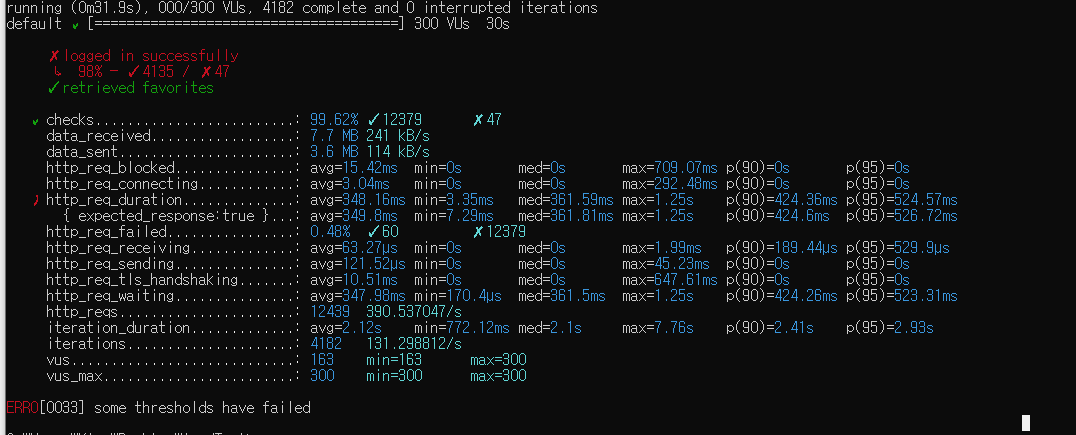
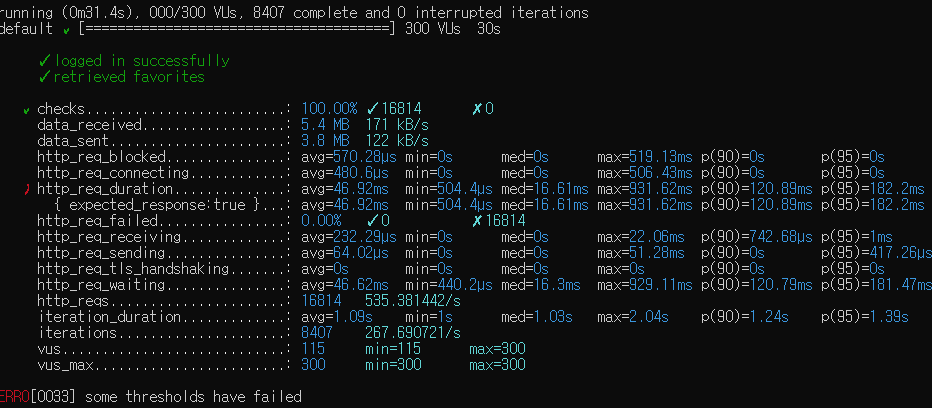
fix : [STEP1] 개선 가능한 항목 재 정리 및 전후 비교 수정 추가

diff --git a/k6/load.js b/k6/load.js
@@ -10,7 +10,7 @@ export let options = {
   },
 };
 
-const BASE_URL = 'https://performance.honbabzone.com';
+const BASE_URL = 'http://localhost:8080';
 const USERNAME = 'user@test.com';
 const PASSWORD = '1234';
 
@@ -18,7 +18,7 @@ export default function ()  {
   let loginResponse = 로그인();
   
 
-  즐겨찾기_조회하기(loginResponse);
+  //즐겨찾기_조회하기(loginResponse);
 
   경로_조회하기(loginResponse)
 

diff --git a/k6/smoke.js b/k6/smoke.js
@@ -10,7 +10,7 @@ export let options = {
   },
 };
 
-const BASE_URL = 'https://performance.honbabzone.com';
+const BASE_URL = 'http://localhost:8080';
 const USERNAME = 'user@test.com';
 const PASSWORD = '1234';
 
@@ -18,7 +18,7 @@ export default function ()  {
   let loginResponse = 로그인();
   
 
-  즐겨찾기_조회하기(loginResponse);
+  //즐겨찾기_조회하기(loginResponse);
 
   경로_조회하기(loginResponse)
 

diff --git a/k6/stress.js b/k6/stress.js
@@ -17,7 +17,7 @@ export let options = {
 	},
 };
 
-const BASE_URL = 'https://performance.honbabzone.com';
+const BASE_URL = 'http://localhost:8080';
 const USERNAME = 'user@test.com';
 const PASSWORD = '1234';
 
@@ -25,7 +25,7 @@ export default function ()  {
   let loginResponse = 로그인();
   
 
-  즐겨찾기_조회하기(loginResponse);
+  //즐겨찾기_조회하기(loginResponse);
 
   경로_조회하기(loginResponse)
 
